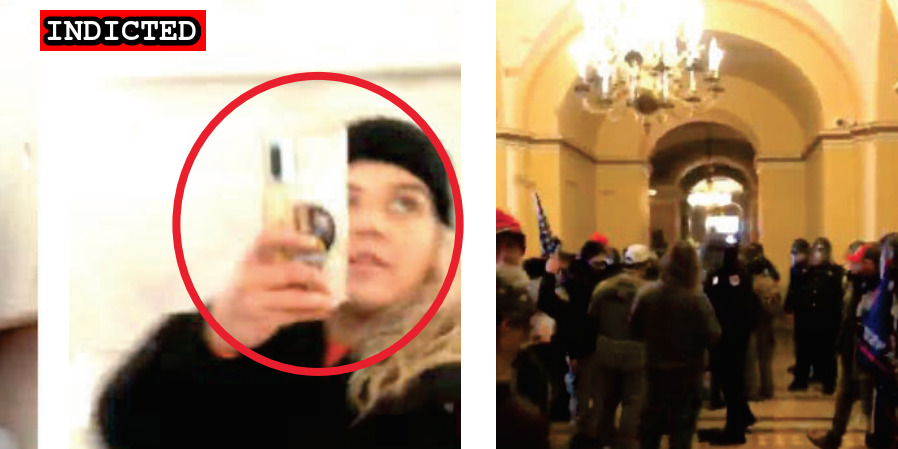
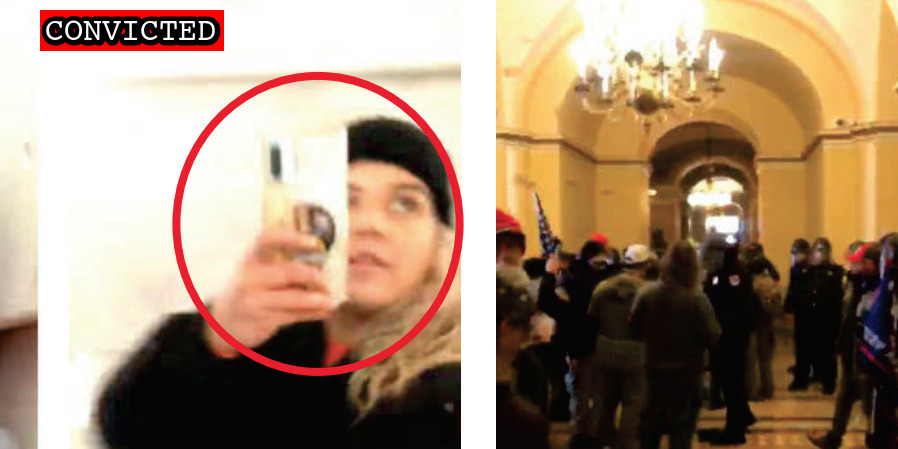
Latest pleas

Changed region(s): [[0.0312, 0.0, 0.2494, 0.1247]]

diff --git a/docs/_suspects/patricia-todisco.md b/docs/_suspects/patricia-todisco.md
@@ -4,15 +4,17 @@ lastName: Todisco
 hashtag: PatriciaTodisco
 aka:
 residence: New Jersey
-status: Indicted
+status: Convicted
 date: 2021-01-22
 charged: 2021-01-22
 indicted: 2021-03-10
-convicted: 
-sentenced: 
-dismissed: 
+convicted: 2022-04-27
+acquitted:
+sentenced:
+dismissed:
 deceased:
-plea_hearing:
+plea_hearing: 2022-04-27
+trial_date:
 sentencing:
 age:
 occupation:
@@ -34,9 +36,16 @@ published: true
 caseNumber: 1:21-cr-205
 videos:
 charges:
+  - code: 40 USC § 5104(e)(2)(G)
+    title: Parading, demonstrating or picketing in a Capitol building
+    url: https://www.law.cornell.edu/uscode/text/40/5104
+    felony: false
 sentence:
 ---
+
 - [News Report](https://philadelphia.cbslocal.com/2021/01/22/marissa-suarez-us-capitol-riots-five-arrests-new-jersey-marissa-suarez-correctional-police-officer/)
 - [Statement of Facts](https://www.justice.gov/opa/page/file/1359596/download)
 - [Complaint](https://www.justice.gov/opa/page/file/1359596/download)
 - [Indictment](https://www.justice.gov/usao-dc/case-multi-defendant/file/1379946/download)
+- [Plea Deal](https://storage.courtlistener.com/recap/gov.uscourts.dcd.228651/gov.uscourts.dcd.228651.44.0.pdf)
+- [Statement of Offense](https://storage.courtlistener.com/recap/gov.uscourts.dcd.228651/gov.uscourts.dcd.228651.45.0.pdf)

diff --git a/docs/_suspects/louis-colon.md b/docs/_suspects/louis-colon.md
@@ -4,15 +4,17 @@ lastName: Colon
 hashtag: ColonPB
 aka:
 residence: Missouri
-status: Indicted
+status: Convicted
 date: 2021-02-11
 charged: 2021-02-11
 indicted: 2021-02-26
-convicted:
+convicted: 2022-04-27
+acquitted:
 sentenced:
 dismissed:
 deceased:
-plea_hearing: 2022-04-26
+plea_hearing: 2022-04-27
+trial_date:
 sentencing:
 age: 44
 occupation:
@@ -34,6 +36,9 @@ published: true
 caseNumber: 1:21-cr-160
 videos:
 charges:
+  - code: 18 USC § 231(a)(3)
+    title: Civil Disorder
+    url: https://www.law.cornell.edu/uscode/text/18/231
 sentence:
 ---
 

diff --git a/docs/_suspects/matthew-montalvo.md b/docs/_suspects/matthew-montalvo.md
@@ -38,6 +38,7 @@ videos:
 charges:
 sentence:
 ---
+
 - [News Report](https://www.clickorlando.com/news/local/2022/04/26/man-arrested-on-jan-6-capitol-riot-charges-is-27th-central-floridian-charged/)
 - [Complaint](https://www.justice.gov/usao-dc/case-multi-defendant/file/1497021/download)
 - [Statement of Facts](https://www.justice.gov/usao-dc/case-multi-defendant/file/1497026/download)
